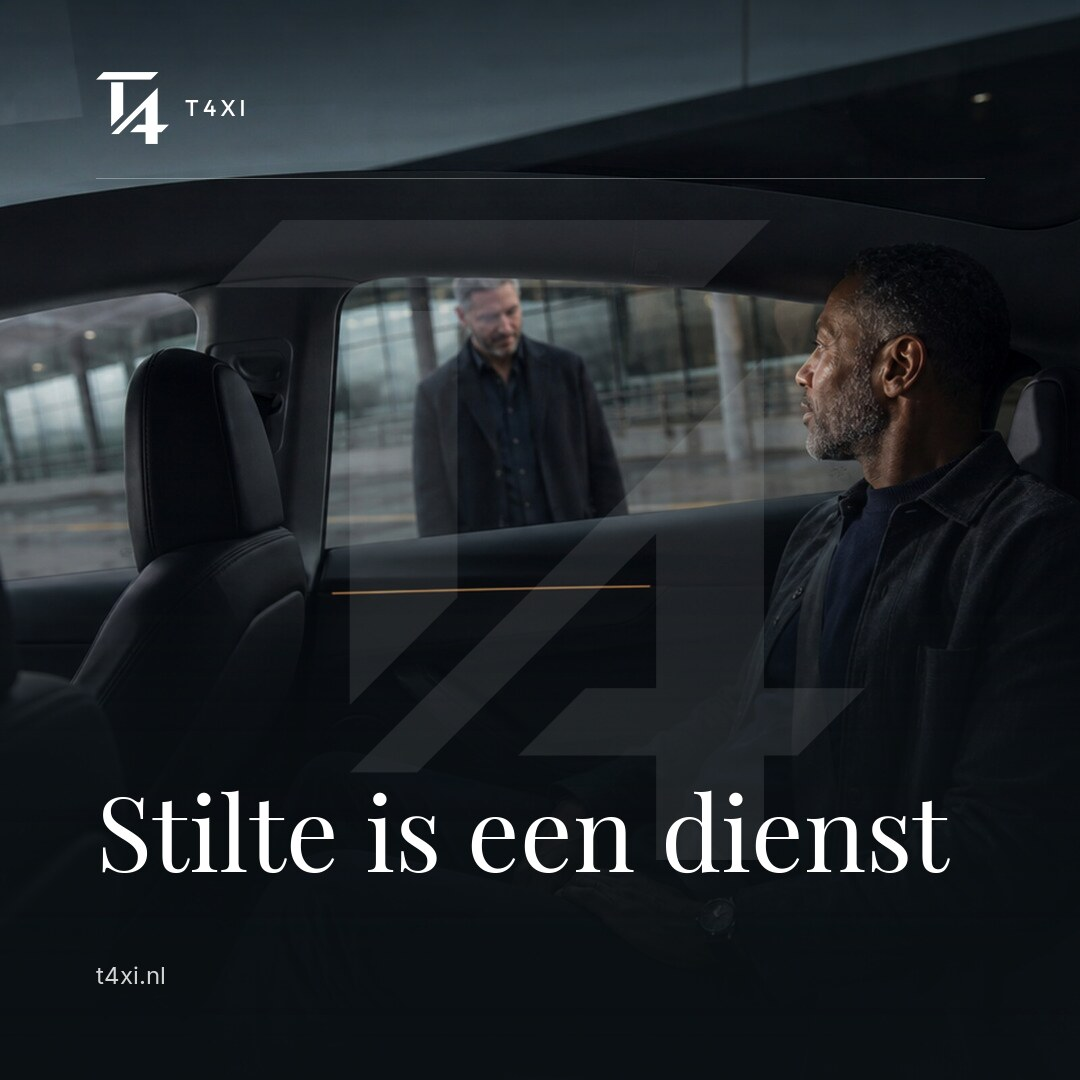
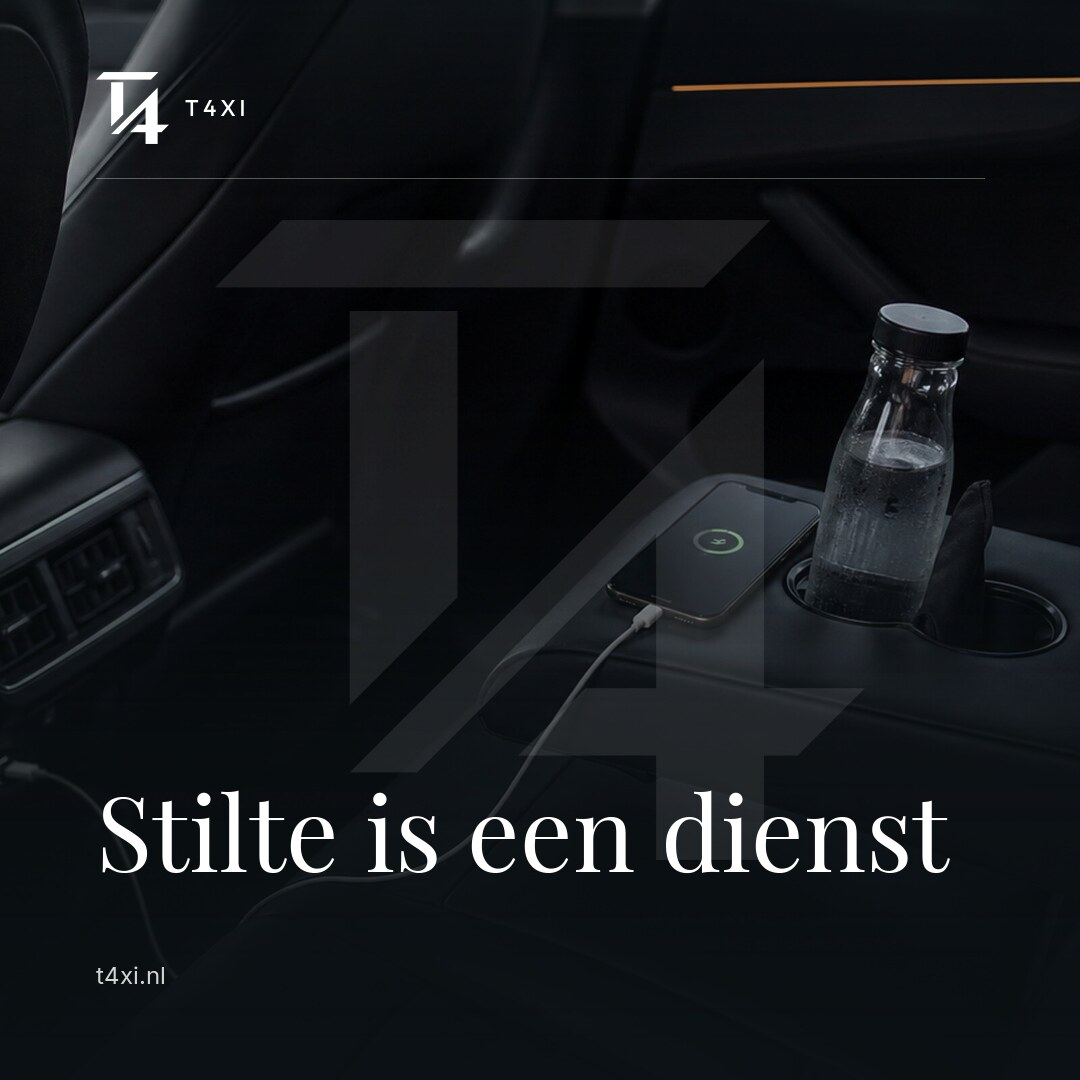
fix(social): Den Haag-post kreeg een Rotterdam-foto
De post van 14-09 ("T4XI rijdt ook in Den Haag") stond op regio--rotterdam,
de Erasmusbrug. De pijler Regio dekt beide steden, dus met MAX_HERHALING = 1
ging de enige regio-foto naar de laagste index — Den Haag — en bleef de
Rotterdam-post zelf met een kaart achter. Precies omgekeerd.

De foto is ook technisch onbruikbaar: 66% helderheid tegen een doel van 34%,
waardoor de grade de gekwantiseerde lucht opentrekt. Chroma-ontruising haalt
de blokken eruit maar niet de uitgeknepen cyaan- en gele vlekken op de
pyloon; die zitten in de bron. Verwijderd uit assets/social (origineel staat
nog in ~/Downloads/t4xi-fotos-cc0).

Den Haag gebruikt nu vloot+station--lynk-co: donker, schoon, en zonder claim
over een stad die niet in beeld is.

CURATIE accepteert nu "kaart" om een tekstkaart af te dwingen. Twee posts die
door het wegvallen van de foto ten onrechte een beeld kregen, staan daarmee
weer op typografie:
- [36] Sinterklaas: kerstverlichting leest half november als te vroeg
- [41] Black Friday: "geen korting" werkt als typografie, niet als foto

Bestandsnamen zijn ongewijzigd, dus bestaande planning in de scheduler blijft
werken; alleen de inhoud van 21 beelden verandert.

diff --git a/scripts/social/build-images.py b/scripts/social/build-images.py
@@ -111,13 +111,20 @@ LOGO_H, WM_H = 72, 640
 WM_KAART, WM_FOTO = 0.08, 0.09        # watermerkdekking
 KOPMAAT = {1: 104, 2: 96, 3: 84, 4: 72}
 
-# Curatie: deze posts krijgen bewust een specifieke foto, ongeacht de pijler.
-# Sleutel is de kolom `idx` in posts.csv.
+# Curatie: deze posts krijgen bewust een specifieke achtergrond, ongeacht de
+# pijler. Sleutel is de kolom `idx` in posts.csv. De waarde "kaart" dwingt een
+# tekstkaart af — voor posts waar geen enkele foto past, of waar typografie het
+# betere beeld IS.
 CURATIE = {
-    2:  "vasteprijs+fairfare--dashboard",                       # leeg scherm bij "geen taxameter"
+    2:  "vasteprijs+fairfare--dashboard",                           # leeg scherm bij "geen taxameter"
     8:  "schiphol+luchthavens+bagage+chauffeur--transfer-terminal",  # chauffeur ontvangt iemand
+    9:  "vloot+station--lynk-co",                                   # Den Haag: geen stadsfoto in de set
     14: "schiphol+luchthavens+bagage+chauffeur--transfer-terminal",  # koffer bij bagagepost
+    36: "kaart",   # Sinterklaas: kerstverlichting leest half november als te vroeg
+    41: "kaart",   # Black Friday: "geen korting" werkt als typografie, niet als foto
 }
+
+KAART = "kaart"   # curatiewaarde die een tekstkaart afdwingt
 
 # Hoe vaak dezelfde foto in de hele reeks mag terugkeren.
 #
@@ -327,7 +334,9 @@ def toewijzen(posts, pool):
         # Curatie gaat voor, maar mag de herhaalgrens niet omzeilen: een
         # bewuste keuze voor dezelfde foto bij drie posts is nog steeds
         # drie keer dezelfde foto in de feed.
-        if (i in CURATIE and CURATIE[i] in sum(pool.values(), [])
+        if CURATIE.get(i) == KAART:
+            gekozen = None
+        elif (i in CURATIE and CURATIE[i] in sum(pool.values(), [])
                 and gebruik.get(CURATIE[i], 0) < MAX_HERHALING):
             gekozen = CURATIE[i]
         elif groep in pool and genomen < tempo * gezien:
